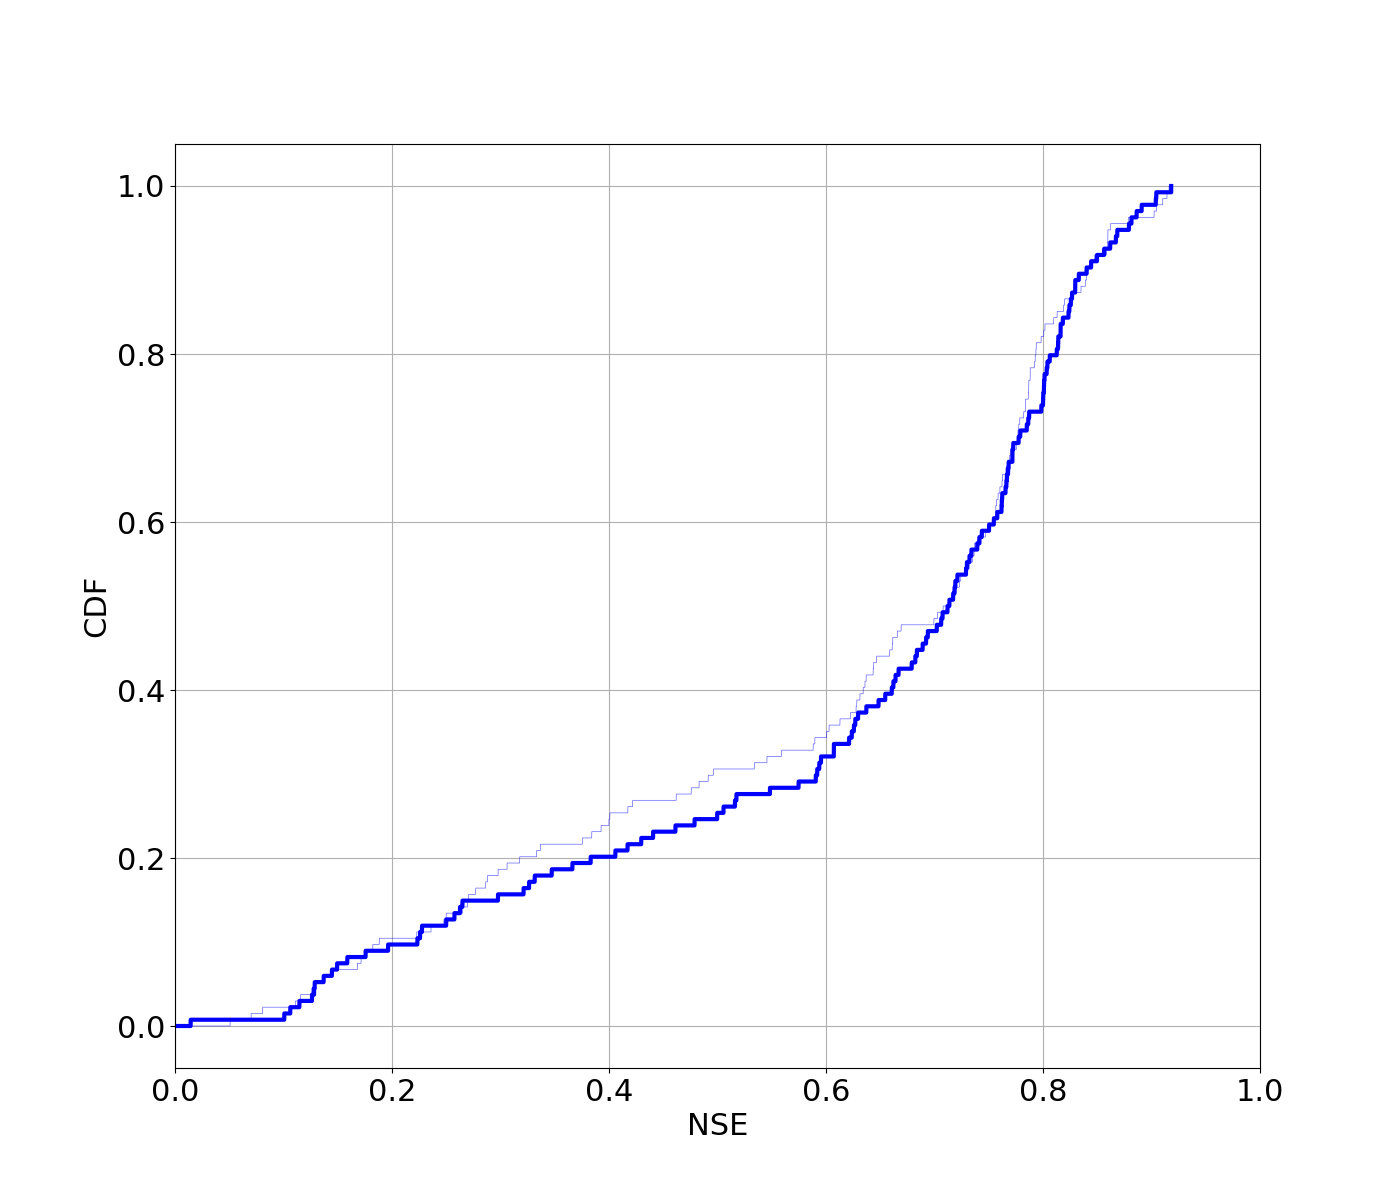
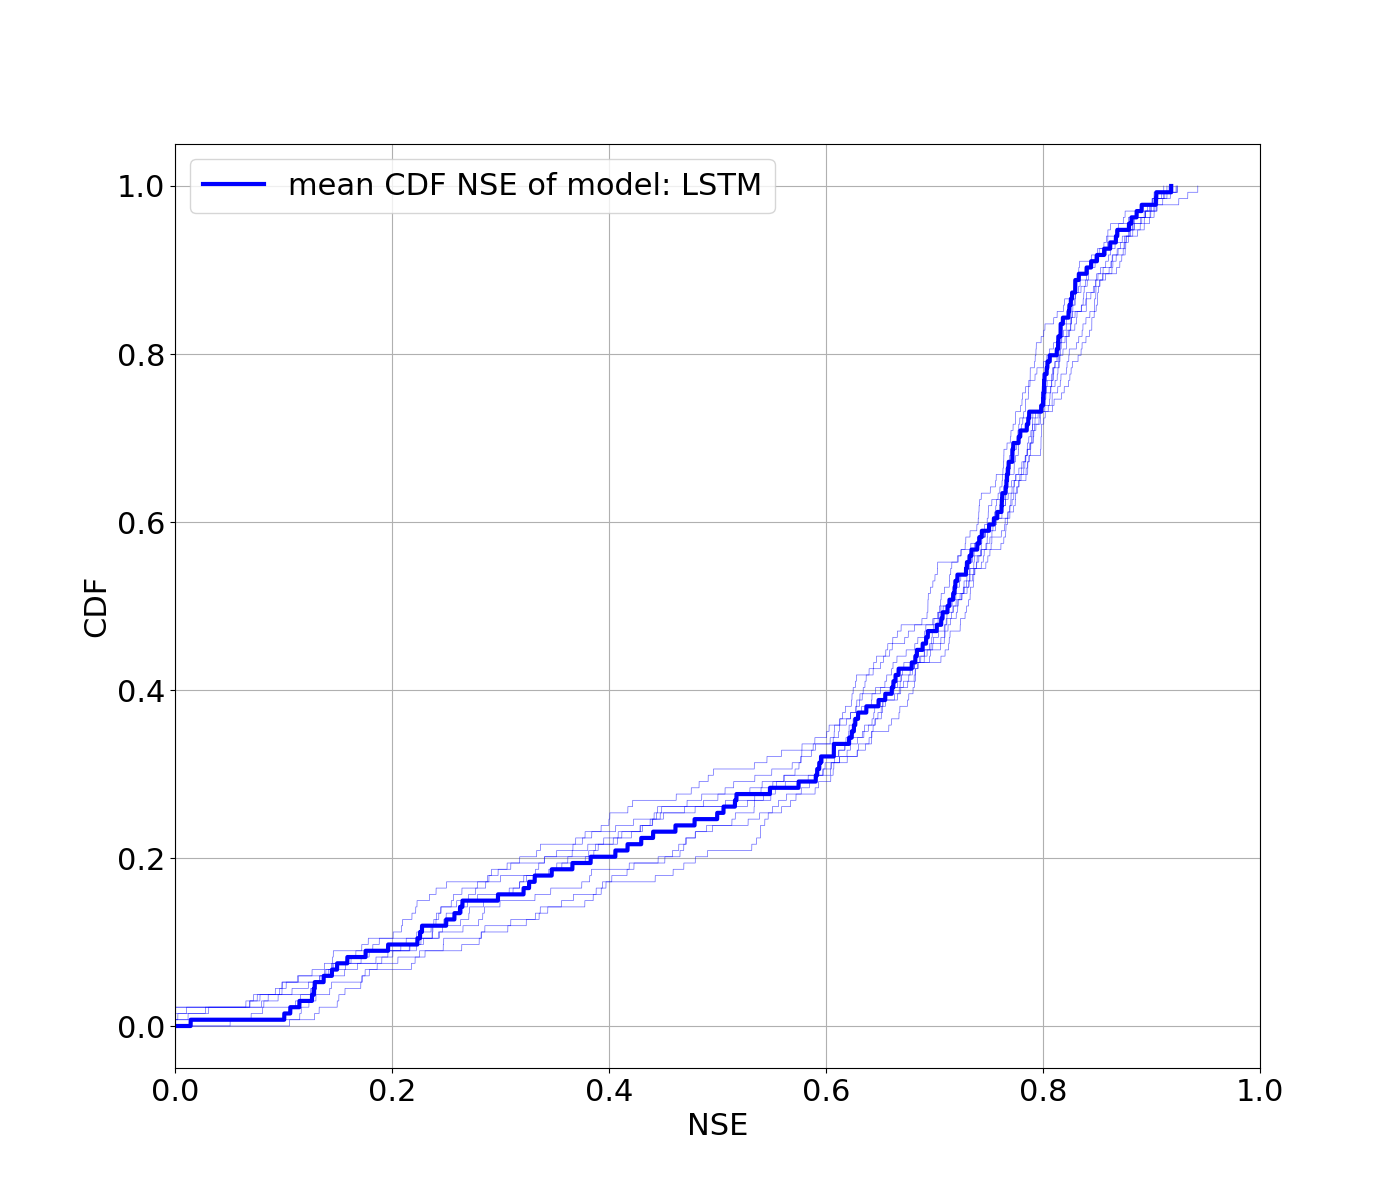
changing NSE CDF plots script - fixing bug

diff --git a/src/create_CDF_NSE_comparison_plot_from_slurm_output.py b/src/create_CDF_NSE_comparison_plot_from_slurm_output.py
@@ -161,37 +161,40 @@ def calc_dicts_from_all_runs_and_all_files(input_file_paths):
 
 
 def plot_NSE_CDF_graphs_all_runs(run_numbers, all_basins_tuples, params_dicts, model_name,
-                                 dict_all_runs_from_all_files, dict_avg_runs_from_all_files):
-    for run_number in run_numbers:
-        for basin_tuple in all_basins_tuples:
-            for params_dict in params_dicts:
+                                 dict_all_runs_from_all_files, dict_avg_runs_from_all_files, stage="validation"):
+    for params_dict in params_dicts:
+        figure(figsize=(14, 12))
+        plt.grid()
+        for run_number in run_numbers:
+            for basin_tuple in all_basins_tuples:
                 if (model_name, run_number, basin_tuple, params_dict) not in dict_all_runs_from_all_files.keys():
                     continue
                 print(f"number of basins of model with name: {model_name} "
                       f"and run number: {run_number} is: {len(basin_tuple)}")
                 if len(basin_tuple) != 135:
                     continue
-                figure(figsize=(14, 12))
-                plt.grid()
                 plot_CDF_NSE_basins(dict_all_runs_from_all_files[(model_name, run_number, basin_tuple, params_dict)],
                                     params_dict,
                                     model_name=model_name,
                                     plot_color=COLORS_LIST[0],
                                     plot_opacity=0.6,
                                     line_width=0.5)
-                plot_CDF_NSE_basins(dict_avg_runs_from_all_files[(model_name, params_dict)],
-                                    params_dict,
-                                    model_name=model_name,
-                                    plot_color=COLORS_LIST[0],
-                                    plot_opacity=1,
-                                    line_width=3,
-                                    label=f"mean CDF NSE of model: {model_name.replace('_', '-')}",
-                                    ablation_study=False)
-                plt.savefig("NSE_CDF" + f"_{model_name}".replace('\n', ' '))
-                plt.close()
+        if (model_name, params_dict) not in dict_avg_runs_from_all_files.keys():
+            continue
+        plot_CDF_NSE_basins(dict_avg_runs_from_all_files[(model_name, params_dict)],
+                            params_dict,
+                            model_name=model_name,
+                            plot_color=COLORS_LIST[0],
+                            plot_opacity=1,
+                            line_width=3,
+                            label=f"mean CDF NSE of model: {model_name.replace('_', '-')}",
+                            ablation_study=False)
+        plt.savefig("NSE_CDF" + f"_{model_name}_{stage}".replace('\n', ' '))
+        plt.close()
 
 
-def plot_NSE_CDF_graphs_average(params_dicts, model_names, dict_avg_runs_from_all_files, ablation_study=False):
+def plot_NSE_CDF_graphs_average(params_dicts, model_names, dict_avg_runs_from_all_files, ablation_study=False,
+                                stage="validation"):
     figure(figsize=(14, 12))
     for ind, model_name in enumerate(model_names):
         for params_dict in params_dicts:
@@ -210,11 +213,11 @@ def plot_NSE_CDF_graphs_average(params_dicts, model_names, dict_avg_runs_from_al
     if ablation_study:
         plt.savefig("NSE_CDF_ablation_study")
     else:
-        plt.savefig("NSE_CDF" + f"_{'_'.join(model_names)}".replace('\n', ' '))
+        plt.savefig("NSE_CDF" + f"_{'_'.join(model_names)}_{stage}".replace('\n', ' '))
     plt.close()
 
 
-def plot_NSE_CDF_graphs_my_code(ablation_study=False):
+def plot_NSE_CDF_graphs_my_code(ablation_study=False, stage="validation"):
     if ablation_study:
         input_file_names = ["slurm-19089603.out", "slurm-19100407.out", "slurm-19185354.out", "slurm-19128144.out"]
     else:
@@ -237,10 +240,10 @@ def plot_NSE_CDF_graphs_my_code(ablation_study=False):
             plot_NSE_CDF_graphs_all_runs(run_numbers=run_numbers, all_basins_tuples=all_basins_tuples,
                                          params_dicts=params_dicts, model_name=model_name,
                                          dict_all_runs_from_all_files=dict_all_runs_from_all_files,
-                                         dict_avg_runs_from_all_files=dict_avg_runs_from_all_files)
+                                         dict_avg_runs_from_all_files=dict_avg_runs_from_all_files, stage=stage)
     plot_NSE_CDF_graphs_average(params_dicts=params_dicts, model_names=model_names,
                                 dict_avg_runs_from_all_files=dict_avg_runs_from_all_files,
-                                ablation_study=ablation_study)
+                                ablation_study=ablation_study, stage=stage)
 
 
 def plot_NSE_CDF_graph_frederik_code():
@@ -277,9 +280,10 @@ def plot_CDF_NSE_basins(nse_losses_np, params_tuple, model_name, plot_color, plo
     if label != "":
         plt.plot(base[:-1], cumulative, color=plot_color, alpha=plot_opacity, linewidth=line_width,
                  label=label)
+        plt.legend()
     else:
         plt.plot(base[:-1], cumulative, color=plot_color, alpha=plot_opacity, linewidth=line_width)
 
 
 if __name__ == "__main__":
-    plot_NSE_CDF_graphs_my_code(ablation_study=False)
+    plot_NSE_CDF_graphs_my_code(ablation_study=False, stage="test")
